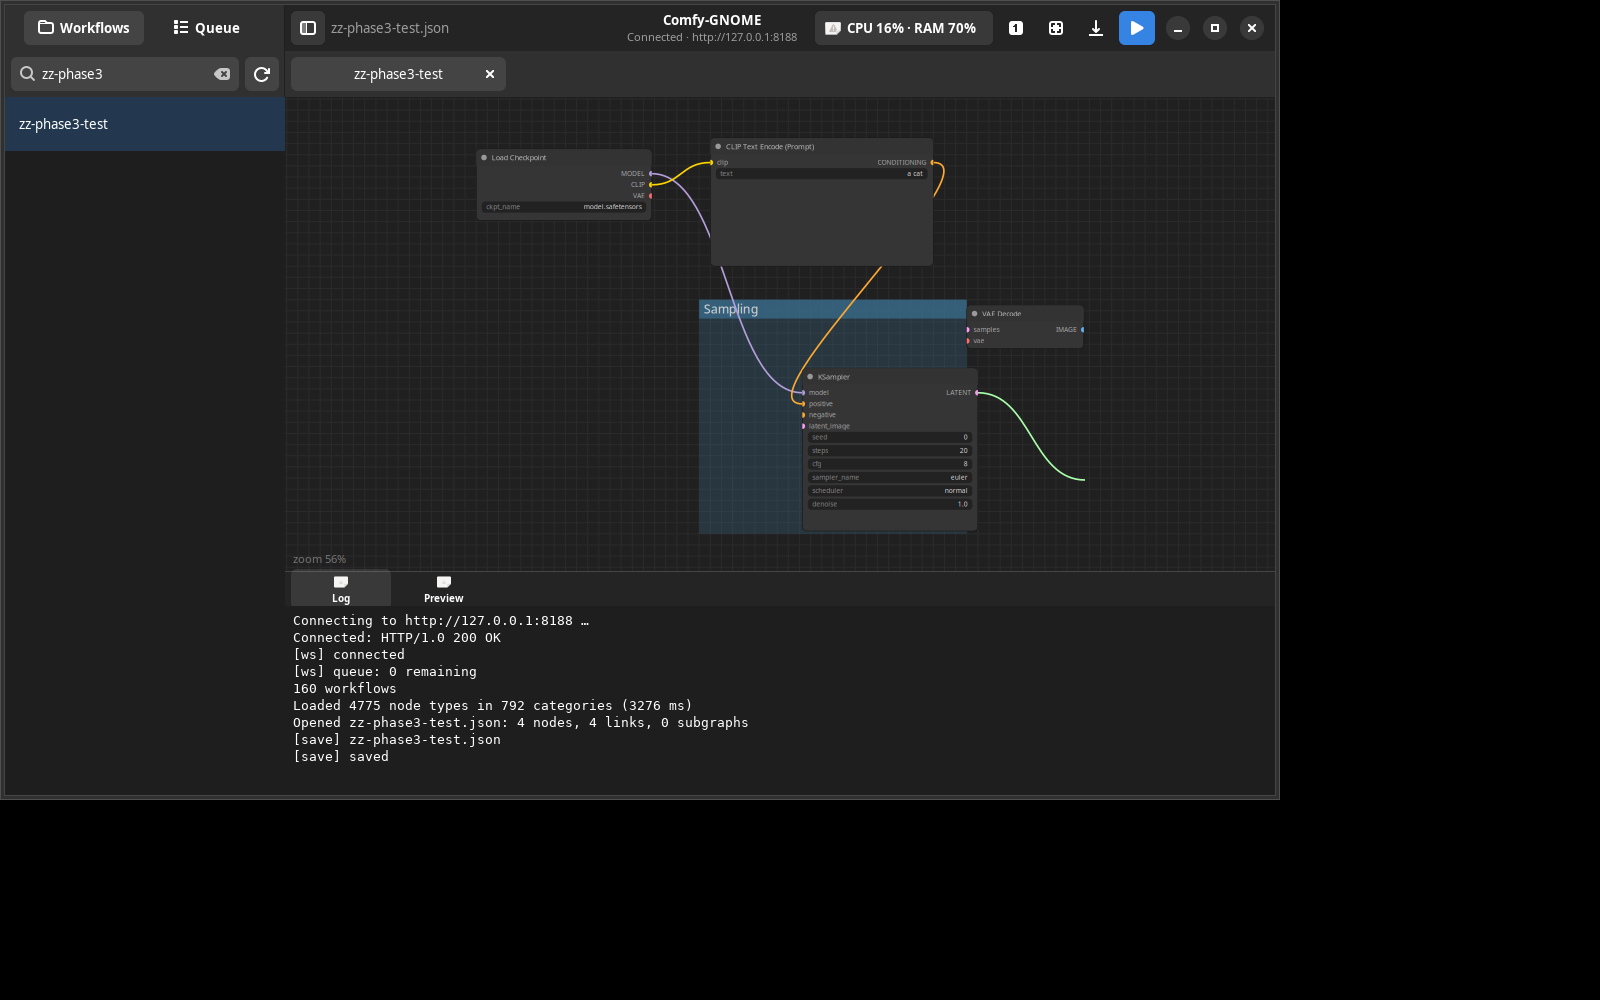
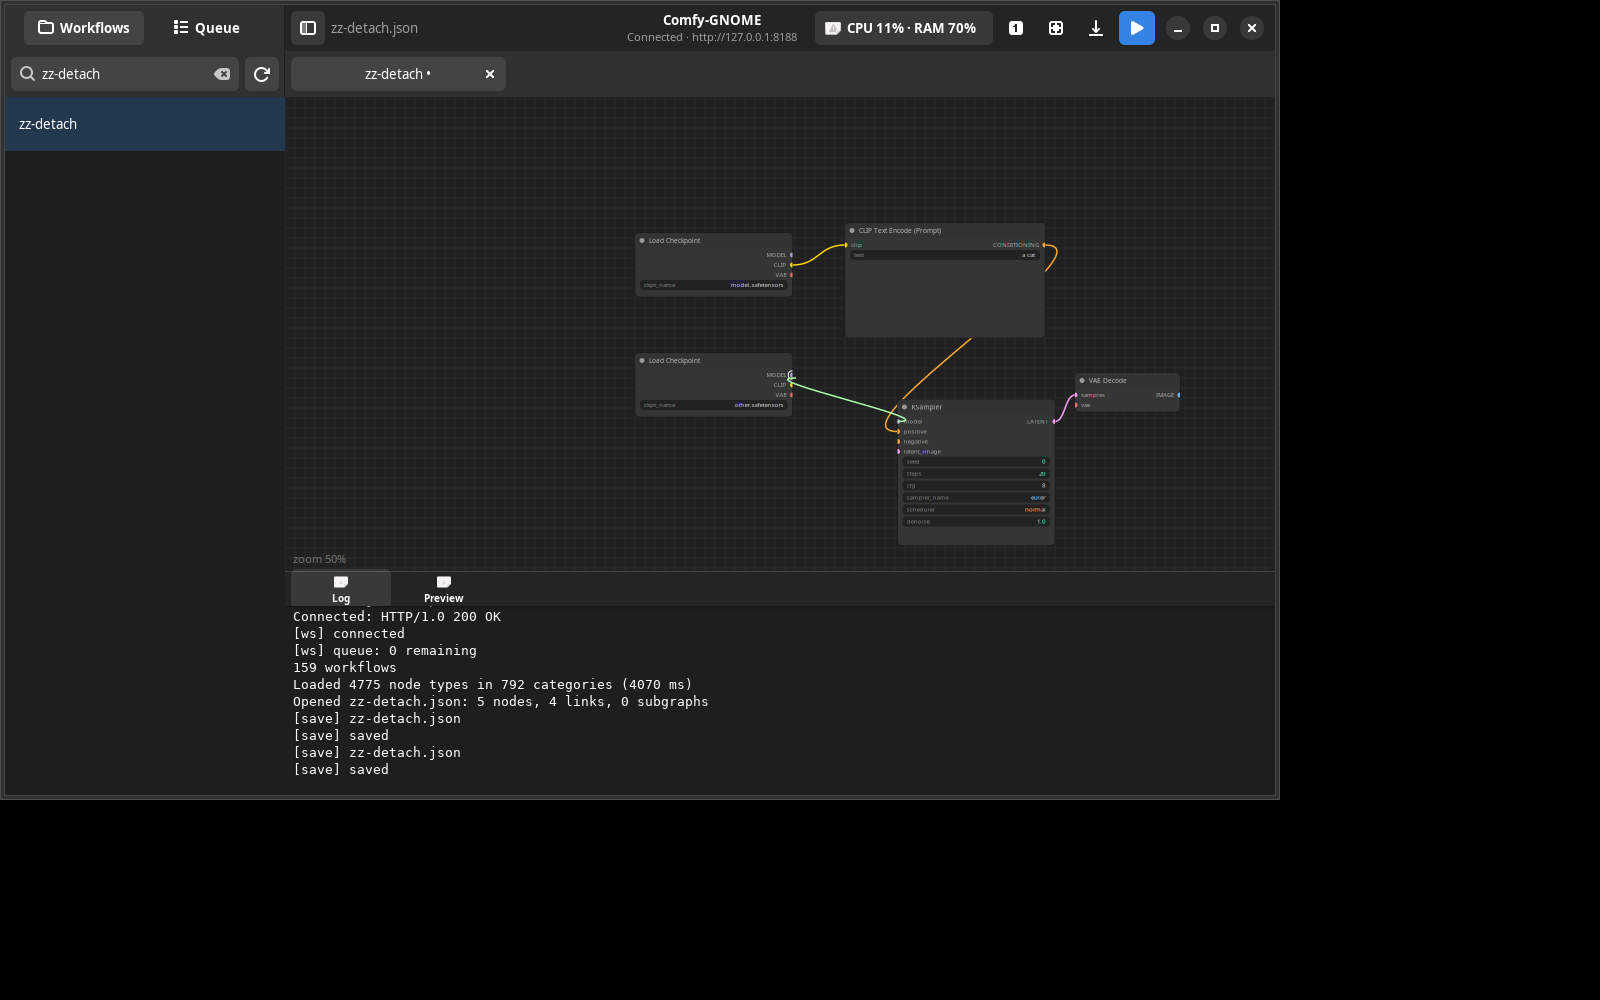
Wires de-anchor at the far end on shift-drag; anchor-agnostic LinkDrag

diff --git a/src/canvas/mod.rs b/src/canvas/mod.rs
@@ -88,17 +88,22 @@ enum Drag {
     Link(LinkDrag),
 }
 
-/// A wire being dragged. Always anchored at an output: dragging away from an
-/// input, or shift-dragging off a connected output, first detaches that wire.
+/// A wire being dragged, anchored at one end. The free end is on the opposite
+/// side: anchored at an output → looking for an input; anchored at an input
+/// (shift on a connected output, or pulling a wire off an input) → looking for
+/// a new output. In both cases the old wire is deleted up front, so dropping on
+/// nothing leaves it removed.
 struct LinkDrag {
-    from: usize,
-    from_slot: usize,
+    /// Node + slot the wire hangs from.
+    node: usize,
+    slot: usize,
+    /// `true` when the anchor is an output of `node`.
+    out: bool,
     ty: String,
     /// Canvas-space cursor position.
     to: (f64, f64),
-    /// The wire was pulled off an existing connection (dropping on nothing deletes it).
-    detached: bool,
-    /// Anything added or removed during this drag.
+    /// Anything added or removed during this drag (a wire pulled off a socket
+    /// counts, so dropping it on nothing leaves the connection deleted).
     changed: bool,
 }
 
@@ -131,13 +136,19 @@ impl State {
         None
     }
 
-    /// Topmost input socket that `ty` may connect to.
-    fn hit_target(&self, p: (f64, f64), r: f64, ty: &str) -> Option<(usize, usize)> {
+    /// Topmost socket on the `out` side that the dragged wire may land on.
+    fn hit_target(&self, p: (f64, f64), r: f64, ty: &str, out: bool) -> Option<(usize, usize)> {
         for &i in self.order.iter().rev() {
             let n = &self.nodes[i];
-            for (si, slot) in n.inputs.iter().enumerate() {
-                let (sx, sy) = n.slot_pos(false, si);
-                if (sx - p.0).hypot(sy - p.1) <= r && compatible(ty, &slot.ty) {
+            let slots = if out { &n.outputs } else { &n.inputs };
+            for (si, slot) in slots.iter().enumerate() {
+                let (sx, sy) = n.slot_pos(out, si);
+                if (sx - p.0).hypot(sy - p.1) > r {
+                    continue;
+                }
+                // `ty` is the free end's type: the anchor decides which side is compared.
+                let ok = if out { compatible(&slot.ty, ty) } else { compatible(ty, &slot.ty) };
+                if ok || slot.ty.is_empty() || ty.is_empty() {
                     return Some((i, si));
                 }
             }
@@ -145,12 +156,16 @@ impl State {
         None
     }
 
-    /// Drop the dragged wire: connect to a compatible input, replacing what was there.
-    /// Inputs take one link only; outputs fan out freely.
+    /// Drop the dragged wire on the opposite side. Inputs take one link only
+    /// (replacing what was there); outputs fan out freely.
     fn finish_link(&mut self, d: &mut LinkDrag, r: f64) {
-        let Some((to, slot)) = self.hit_target(d.to, r, &d.ty) else { return };
-        self.links.retain(|l| !(l.to == to && l.to_slot == slot));
-        self.links.push(Link { from: d.from, from_slot: d.from_slot, to, to_slot: slot });
+        let Some((other, slot)) = self.hit_target(d.to, r, &d.ty, !d.out) else { return };
+        if d.out {
+            self.links.retain(|l| !(l.to == other && l.to_slot == slot));
+            self.links.push(Link { from: d.node, from_slot: d.slot, to: other, to_slot: slot });
+        } else {
+            self.links.push(Link { from: other, from_slot: slot, to: d.node, to_slot: d.slot });
+        }
         d.changed = true;
     }
 }
@@ -373,31 +388,49 @@ impl Canvas {
                 let r = 9.0 / s.view.zoom; // constant ~9 screen px, whatever the zoom
                 if let Some((idx, out, si)) = s.hit_slot(c, r) {
                     if out {
-                        let ty = s.nodes[idx].outputs[si].ty.clone();
-                        let mut d = LinkDrag { from: idx, from_slot: si, ty, to: c, detached: false, changed: false };
-                        // Shift pulls the existing wire off the output instead of adding one.
+                        // Shift de-anchors the far end: the wire keeps hanging from the
+                        // input it fed and follows the cursor looking for a new output.
                         if shift {
                             if let Some(li) = s.links.iter().rposition(|l| l.from == idx && l.from_slot == si) {
-                                s.links.remove(li);
-                                d.detached = true;
-                                d.changed = true;
+                                let l = s.links.remove(li);
+                                let ty = s.nodes[l.to].inputs[l.to_slot].ty.clone();
+                                s.drag = Some(Drag::Link(LinkDrag {
+                                    node: l.to,
+                                    slot: l.to_slot,
+                                    out: false,
+                                    ty,
+                                    to: c,
+                                    changed: true,
+                                }));
+                                drop(s);
+                                area.queue_draw();
+                                return;
                             }
                         }
-                        s.drag = Some(Drag::Link(d));
+                        let ty = s.nodes[idx].outputs[si].ty.clone();
+                        s.drag = Some(Drag::Link(LinkDrag {
+                            node: idx,
+                            slot: si,
+                            out: true,
+                            ty,
+                            to: c,
+                            changed: false,
+                        }));
                         drop(s);
                         area.queue_draw();
                         return;
                     }
-                    // Dragging off a connected input takes that wire with it.
+                    // Dragging off a connected input takes that wire with it (anchored at
+                    // its output, i.e. the other end).
                     if let Some(li) = s.links.iter().position(|l| l.to == idx && l.to_slot == si) {
                         let l = s.links.remove(li);
                         let ty = s.nodes[l.from].outputs[l.from_slot].ty.clone();
                         s.drag = Some(Drag::Link(LinkDrag {
-                            from: l.from,
-                            from_slot: l.from_slot,
+                            node: l.from,
+                            slot: l.from_slot,
+                            out: true,
                             ty,
                             to: c,
-                            detached: true,
                             changed: true,
                         }));
                         drop(s);
@@ -652,10 +685,11 @@ fn draw(cr: &gtk::cairo::Context, s: &State, w: f64, h: f64) {
                 rgb(cr, type_color(&slot.ty));
                 cr.arc(px, py, 5.0, 0.0, 2.0 * PI);
                 cr.fill().ok();
-                // Ring the socket a dragged wire would land in.
-                if !out {
-                    if let Some(Drag::Link(d)) = &s.drag {
-                        if compatible(&d.ty, &slot.ty) && (px - d.to.0).hypot(py - d.to.1) <= 12.0 / v.zoom {
+                // Ring the socket a dragged wire would land in (the free end's side).
+                if let Some(Drag::Link(d)) = &s.drag {
+                    if d.out != out {
+                        let ok = if out { compatible(&slot.ty, &d.ty) } else { compatible(&d.ty, &slot.ty) };
+                        if ok && (px - d.to.0).hypot(py - d.to.1) <= 12.0 / v.zoom {
                             rgb(cr, 0xffffff);
                             cr.set_line_width(2.0);
                             cr.arc(px, py, 8.5, 0.0, 2.0 * PI);
@@ -690,10 +724,10 @@ fn draw(cr: &gtk::cairo::Context, s: &State, w: f64, h: f64) {
 
     // Wire being dragged, on top of everything (litegraph CONNECTING_LINK_COLOR).
     if let Some(Drag::Link(d)) = &s.drag {
-        if let Some(n) = s.nodes.get(d.from) {
+        if let Some(n) = s.nodes.get(d.node) {
             rgb(cr, 0xaaffaa);
             cr.set_line_width(3.0);
-            link_path(cr, n.slot_pos(true, d.from_slot), d.to);
+            link_path(cr, n.slot_pos(d.out, d.slot), d.to);
             cr.stroke().ok();
         }
     }

diff --git a/AGENT-HANDOFF.md b/AGENT-HANDOFF.md
@@ -127,9 +127,12 @@ build-dep glib-build-tools 0.21). Flatpak: GNOME 50 runtime + rust-stable 25.08 
   (`mcp comfyui_validate_workflow`, arg `workflow_path`) as an external oracle — it converts UI→API server-side,
   so it cross-checks `prompt.rs` and anything our save writes.
 - **Wires**: `hit_slot`/`hit_target` with radius `9/zoom` canvas units. Drag from an output → new link; drag from a
-  connected **input** → unplug (stays detached on release over nothing); **shift+drag from a connected output** →
-  detaches that link and re-routes from the cursor (the dropped-to-empty case deletes it). In-progress wire is
-  `#aaffaa`; hovering a type-compatible target draws a ring; incompatible slots are ignored.
+  connected **input** → the wire keeps hanging from its origin and follows the cursor (unplug; release over nothing
+  deletes it). **shift+drag from a connected output** de-anchors the *far* end: the wire keeps hanging from the input
+  it fed and hunts for a new output, so shift-dragging a MODEL wire from loader A onto loader B re-sources the wire
+  (`links: [[5,5,0,3,0,"MODEL"]]`) instead of merely redrawing it from the same node. Implemented by making
+  `LinkDrag` anchor-agnostic (`out: bool`); the drop targets and hover ring use `hit_target(p, r, ty, !out)`.
+  In-progress wire is `#aaffaa`; hovering a type-compatible target draws a ring; incompatible slots are ignored.
 - **Bug fixed — viewport restore lost**: `set_graph()` set `pending_fit` and the resize callback refit the graph
   once the widget got a size, silently overriding the `extra.ds` viewport restored right after. `set_view()` now
   clears `pending_fit`, so a saved viewport wins and auto-fit only happens when there is no saved view.

diff --git a/docs/ARCHITECTURE.md b/docs/ARCHITECTURE.md
@@ -124,12 +124,16 @@ arrow pops it. Every tab keeps its own `Canvas`, so viewports are independent; t
    so fields we do not model survive untouched.
 5. `api::save_workflow` → `POST /api/userdata/<percent-encoded "workflows/<file>">`.
 
-**Link editing semantics** (`canvas::hit_slot` / `hit_target`, radius `9/zoom` canvas units):
+**Link editing semantics** (`canvas::hit_slot` / `hit_target`, radius `9/zoom` canvas units). A dragged wire is
+anchored at exactly one end (`LinkDrag { node, slot, out, ty, to, changed }`); `out` names the side the anchor sits
+on and the drop test therefore looks at the *opposite* side — `hit_target(p, r, ty, !out)`, which also picks the
+right comparison direction because `compatible()` is asymmetric (only the input may list alternatives like
+`"IMAGE,MASK"`):
 | gesture | result |
 |---|---|
 | drag from output | new link from that output |
 | drag from connected input | link unplugged, still attached to the cursor; drop on nothing deletes |
-| shift+drag from connected output | existing link detached and re-routed from the cursor |
+| shift+drag from connected output | link **de-anchored at that output**: the wire keeps hanging from the input it fed and now hunts for a new output (drop on nothing deletes it) |
 | drop on incompatible type | ignored (hover ring only on compatible targets) |
 
 **Link colours** come from the litegraph palette (`LGraphCanvas.link_type_colors`, ported to

diff --git a/ROADMAP.md b/ROADMAP.md
@@ -33,7 +33,8 @@ Each phase ends with a runnable build, updated `AGENT-HANDOFF.md`, and screensho
       `converted_node_count` unchanged by `comfyui validate workflow`)
 - [x] Slot **type colours** (16-entry palette from `LGraphCanvas.link_type_colors`)
 - [x] Link editing: drag from an output/input to wire, drag off an input to unplug, **shift+drag** an output to
-      detach the existing link and re-route it, hover ring on type-compatible targets only
+      de-anchor the far end (wire keeps hanging from its input, drop it on another output to re-source it), hover ring
+      on type-compatible targets only
 - [ ] Undo/redo history
 - [ ] Node add menu/search (from `/object_info`), delete, multi-select, rubber-band, copy/paste
 - [ ] Node library sidebar tab (search `/object_info`, insert nodes)
